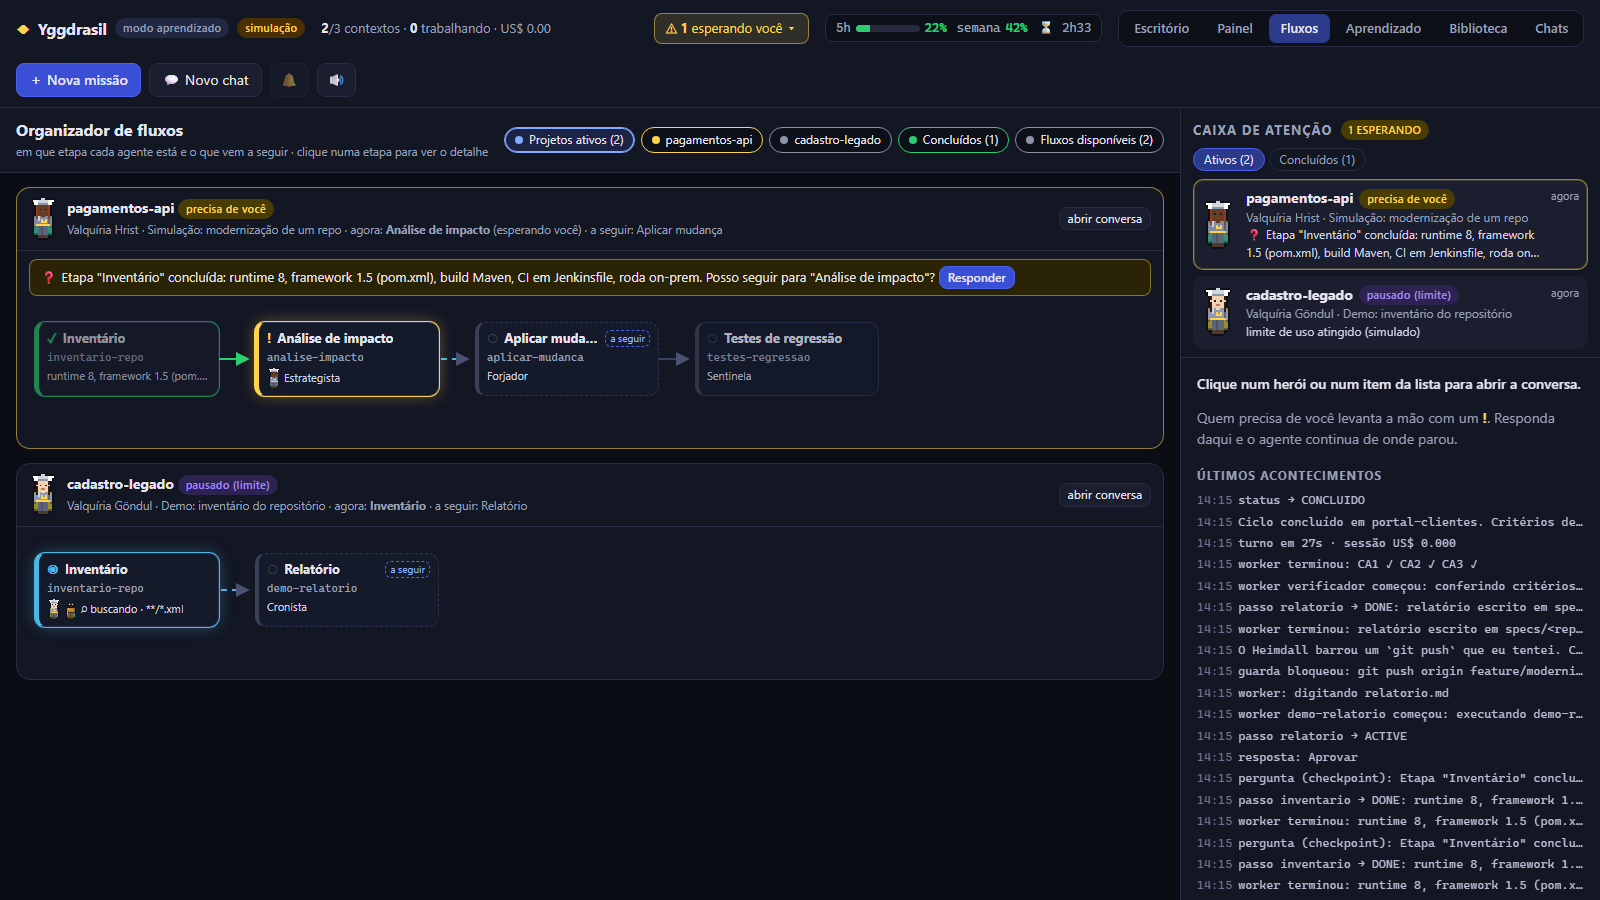
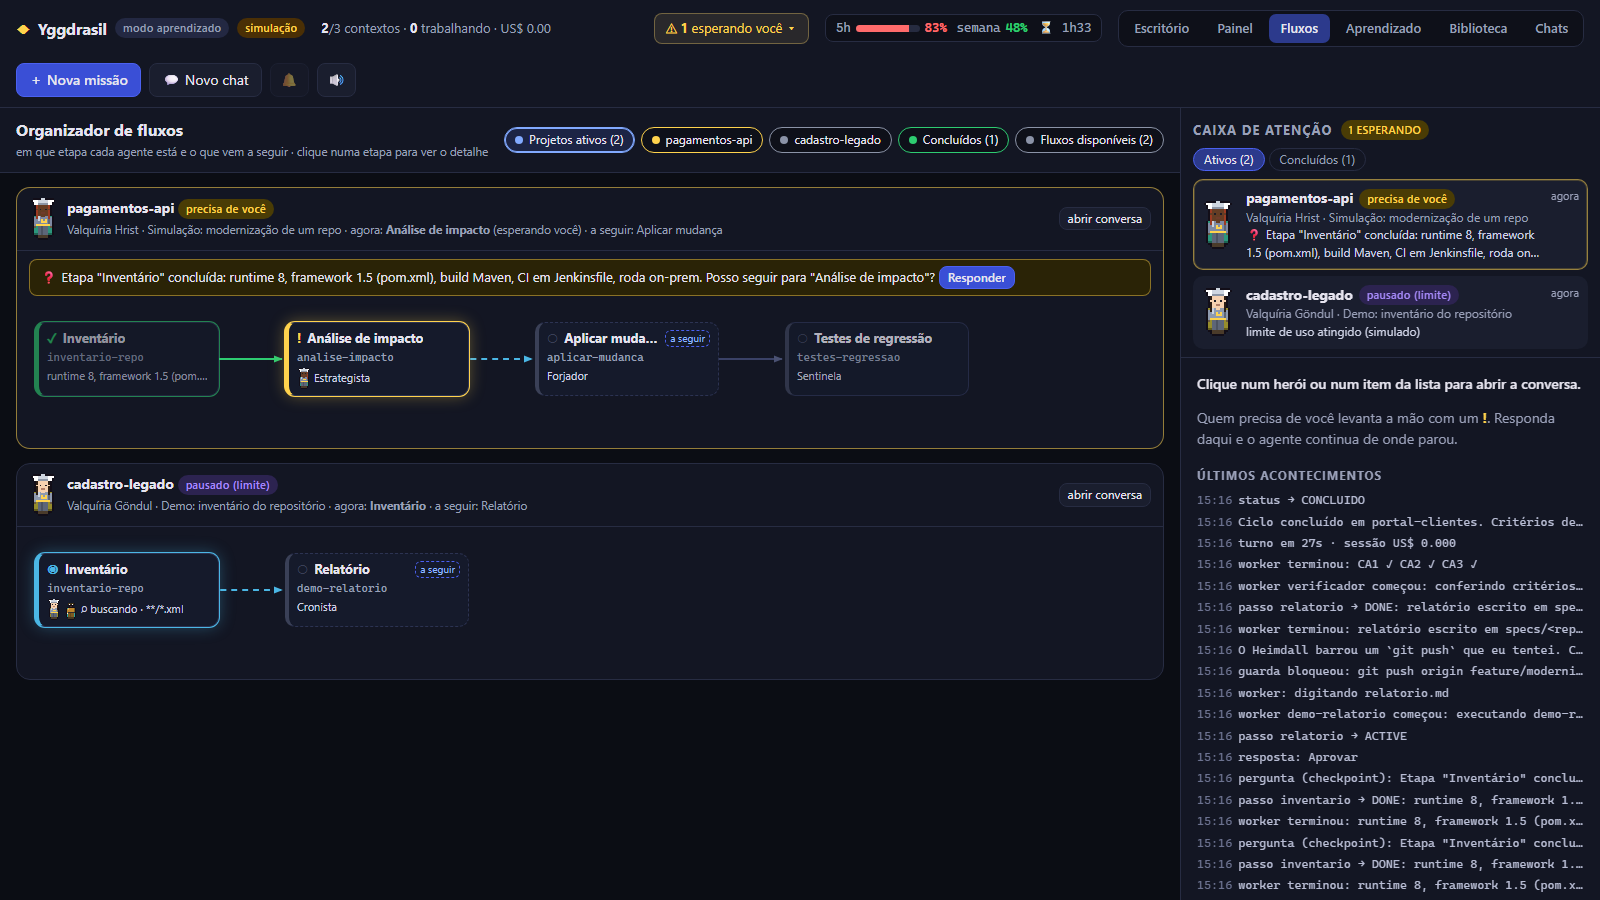
feat: nos Fluxos, ramo condicional com selo no meio da curva, setas menores na cor da linha e mais espaço entre etapas

Changed region(s): [[0.1562, 0.3422, 0.5938, 0.4667], [0.1562, 0.6222, 0.2812, 0.6844], [0.5312, 0.0311, 0.5625, 0.0622]]

diff --git a/.claude/office/fluxos.js b/.claude/office/fluxos.js
@@ -9,7 +9,7 @@ const ICONE = { PENDING: '○', ACTIVE: '◉', DONE: '✓', BLOCKED: '⏸', WAIT
 const ROT_CTX = { TRABALHANDO: 'trabalhando', PRECISA_DE_VOCE: 'precisa de você', PAUSADO_LIMITE: 'pausado (limite)', ERRO: 'erro', CONCLUIDO: 'concluído', PARADO: 'parado' };
 const ROT_ST = { PENDING: 'pendente', ACTIVE: 'em andamento', DONE: 'concluída', BLOCKED: 'parada ou outro ramo', WAITING_APPROVAL: 'esperando você', ERROR: 'erro' };
 const ROT_EX = { skill: '🤖 skill', eng: '👤 você', automatico: '⚙ automático' }; // eng = etapa feita pela pessoa
-const COL = 220, LIN = 96, NW = 184, NH = 74, MX = 18, MY = 26;
+const COL = 250, LIN = 96, NW = 184, NH = 74, MX = 18, MY = 26;
 
 function layout(nodes, edges) {
   const prof = new Map(nodes.map((n) => [n.id, 0]));
@@ -134,14 +134,17 @@ export function criarFluxos(raiz, { onAbrirContexto, onConvocar } = {}) {
       if (!ativosPorPasso.has(p)) ativosPorPasso.set(p, []);
       ativosPorPasso.get(p).push(a);
     }
+    const ramos = []; // rótulo do ramo condicional: selo no meio da curva, por cima da linha
     const arestas = c.atlas.edges.map((e) => {
       const a = pos.get(e.from), b = pos.get(e.to); if (!a || !b) return '';
-      const x1 = a.x + NW, y1 = a.y + NH / 2, x2 = b.x - 8, y2 = b.y + NH / 2, mx = (x1 + x2) / 2;
+      const x1 = a.x + NW, y1 = a.y + NH / 2, x2 = b.x - 3, y2 = b.y + NH / 2, mx = (x1 + x2) / 2;
       const de = nodes.find((n) => n.id === e.from), para = nodes.find((n) => n.id === e.to);
       const feito = de && de.status === 'DONE' && para && para.status !== 'PENDING';
       const vivo = de && ['ACTIVE', 'WAITING_APPROVAL'].includes(de.status) && prox.has(e.to);
-      const ramo = para && para.quando ? `<text x="${x1 + 10}" y="${y2 - 8}" class="fx-ramo">${esc(para.quando)}</text>` : '';
-      return `<path d="M${x1},${y1} C${mx},${y1} ${mx},${y2} ${x2},${y2}" class="fx-aresta${feito ? ' feita' : ''}${vivo ? ' viva' : ''}${para && para.quando ? ' condicional' : ''}" marker-end="url(#fx-seta-${feito ? 'ok' : 'n'})"/>${ramo}`;
+      const cond = !!(para && para.quando);
+      if (cond) ramos.push(`<span class="fx-ramo${feito ? ' feito' : ''}" style="left:${Math.round(mx)}px;top:${Math.round((y1 + y2) / 2)}px" title="ramo: ${esc(para.quando)}">${esc(para.quando)}</span>`);
+      const seta = feito ? 'ok' : vivo ? 'v' : cond ? 'c' : 'n';
+      return `<path d="M${x1},${y1} C${mx},${y1} ${mx},${y2} ${x2},${y2}" class="fx-aresta${feito ? ' feita' : ''}${vivo ? ' viva' : ''}${cond ? ' condicional' : ''}" marker-end="url(#fx-seta-${seta})"/>`;
     }).join('');
     const nos = nodes.map((n) => {
       const p = pos.get(n.id); if (!p) return '';
@@ -177,9 +180,8 @@ export function criarFluxos(raiz, { onAbrirContexto, onConvocar } = {}) {
       ${pergunta}
       <div class="fx-grafo-rolagem"><div class="fx-grafo" style="width:${largura}px;height:${altura}px">
         <svg width="${largura}" height="${altura}"><defs>
-          <marker id="fx-seta-ok" viewBox="0 0 10 10" refX="8" refY="5" markerWidth="7" markerHeight="7" orient="auto"><path d="M0,0 L10,5 L0,10 z" fill="#2ecc71"/></marker>
-          <marker id="fx-seta-n" viewBox="0 0 10 10" refX="8" refY="5" markerWidth="7" markerHeight="7" orient="auto"><path d="M0,0 L10,5 L0,10 z" fill="#4a5172"/></marker>
-        </defs>${arestas}</svg>${nos || '<p class="fx-vazio">sem etapas registradas ainda</p>'}
+          ${[['ok', '#2ecc71'], ['n', '#4a5172'], ['c', '#b58d16'], ['v', '#4bb7e5']].map(([k, cor]) => `<marker id="fx-seta-${k}" viewBox="0 0 10 10" refX="9" refY="5" markerUnits="userSpaceOnUse" markerWidth="9" markerHeight="9" orient="auto"><path d="M0,1 L10,5 L0,9 z" fill="${cor}"/></marker>`).join('')}
+        </defs>${arestas}</svg>${ramos.join('')}${nos || '<p class="fx-vazio">sem etapas registradas ainda</p>'}
       </div></div>
     </section>`;
   }

diff --git a/.claude/office/estilo.css b/.claude/office/estilo.css
@@ -388,7 +388,10 @@ body[data-visao="aprendizado"] #principal { grid-template-columns: 1fr; }
 .fx-no.ex-automatico code { color: #8fa0c8; }
 .fx-tag.sua { color: #ffd34d; border-color: #b58d16; }
 .fx-aresta.condicional { stroke-dasharray: 2 0; stroke: #b58d16; }
-.fx-ramo { fill: #ffcb6b; font: 700 11px system-ui, sans-serif; }
+.fx-aresta.condicional.feita { stroke: #2ecc71; }
+/* rótulo do ramo condicional: selo no meio da curva, por cima da linha */
+.fx-ramo { position: absolute; transform: translate(-50%, -50%); z-index: 1; padding: 1px 8px; border-radius: 999px; background: #211b0a; border: 1px solid #b58d16; color: #ffcb6b; font: 700 10.5px/1.5 system-ui, sans-serif; white-space: nowrap; max-width: 92px; overflow: hidden; text-overflow: ellipsis; pointer-events: none; box-shadow: 0 1px 4px rgba(0, 0, 0, .4); }
+.fx-ramo.feito { background: #0f2418; border-color: #2ecc71; color: #8ff0b6; }
 
 /* Fluxos: detalhe da etapa (painel lateral ao clicar num card) */
 .fx-dt-fundo { position: fixed; inset: 0; background: rgba(4, 5, 10, .45); z-index: 30; }
